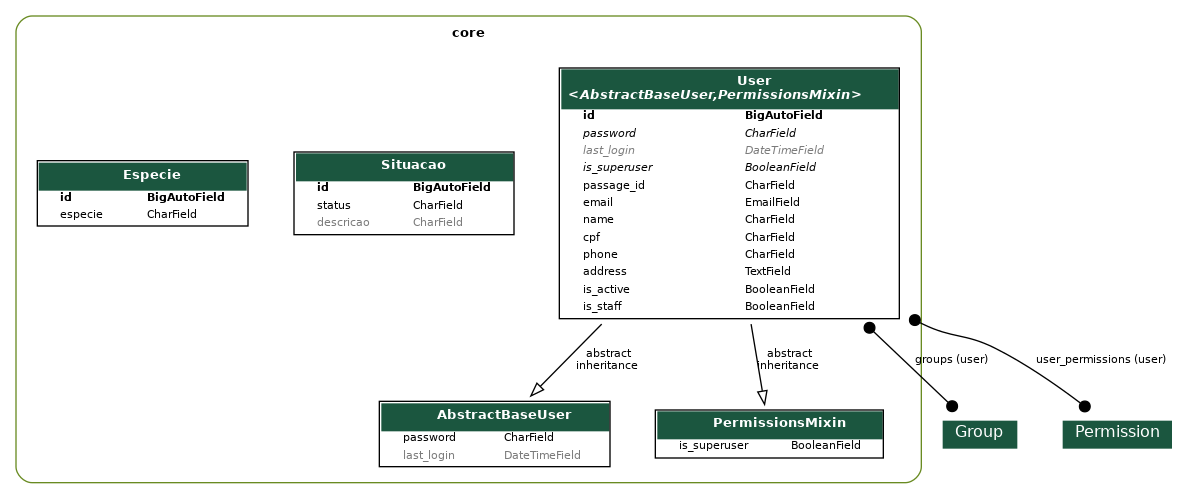
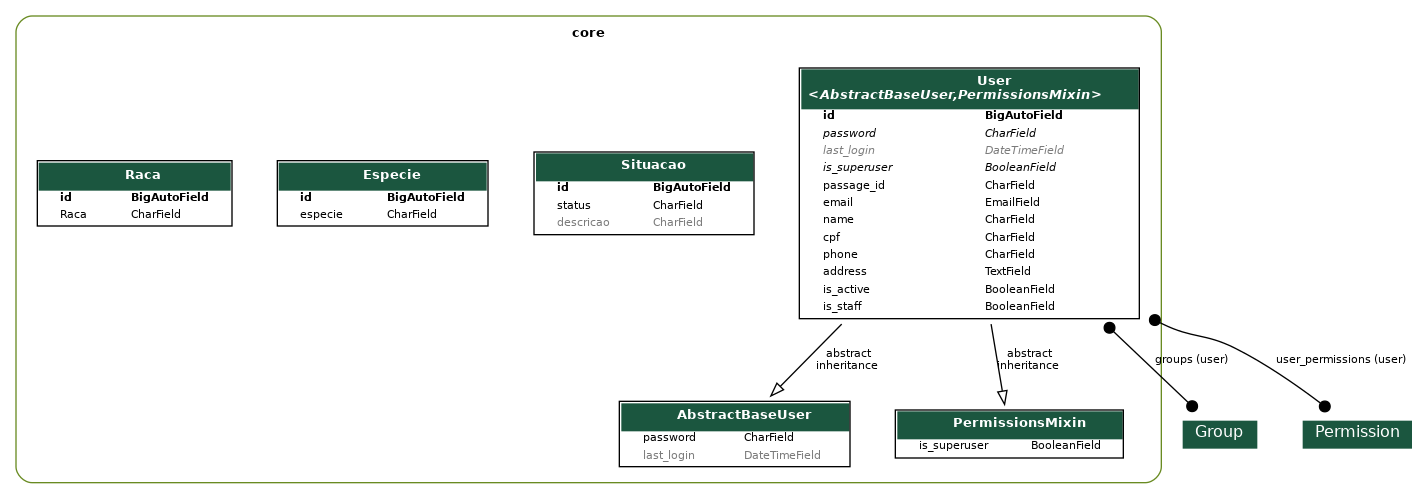
Migrate e Inserção no Admin (Raca)

diff --git a/core/migrations/0008_raca.py b/core/migrations/0008_raca.py
@@ -1,0 +1,20 @@
+# Generated by Django 5.1 on 2024-08-20 17:53
+
+from django.db import migrations, models
+
+
+class Migration(migrations.Migration):
+
+    dependencies = [
+        ("core", "0007_especie"),
+    ]
+
+    operations = [
+        migrations.CreateModel(
+            name="Raca",
+            fields=[
+                ("id", models.BigAutoField(auto_created=True, primary_key=True, serialize=False, verbose_name="ID")),
+                ("Raca", models.CharField(max_length=100)),
+            ],
+        ),
+    ]

diff --git a/core/admin.py b/core/admin.py
@@ -54,3 +54,4 @@ class UserAdmin(BaseUserAdmin):
 admin.site.register(models.User, UserAdmin)
 admin.site.register(models.Situacao)
 admin.site.register(models.Especie)
+admin.site.register(models.Raca)
